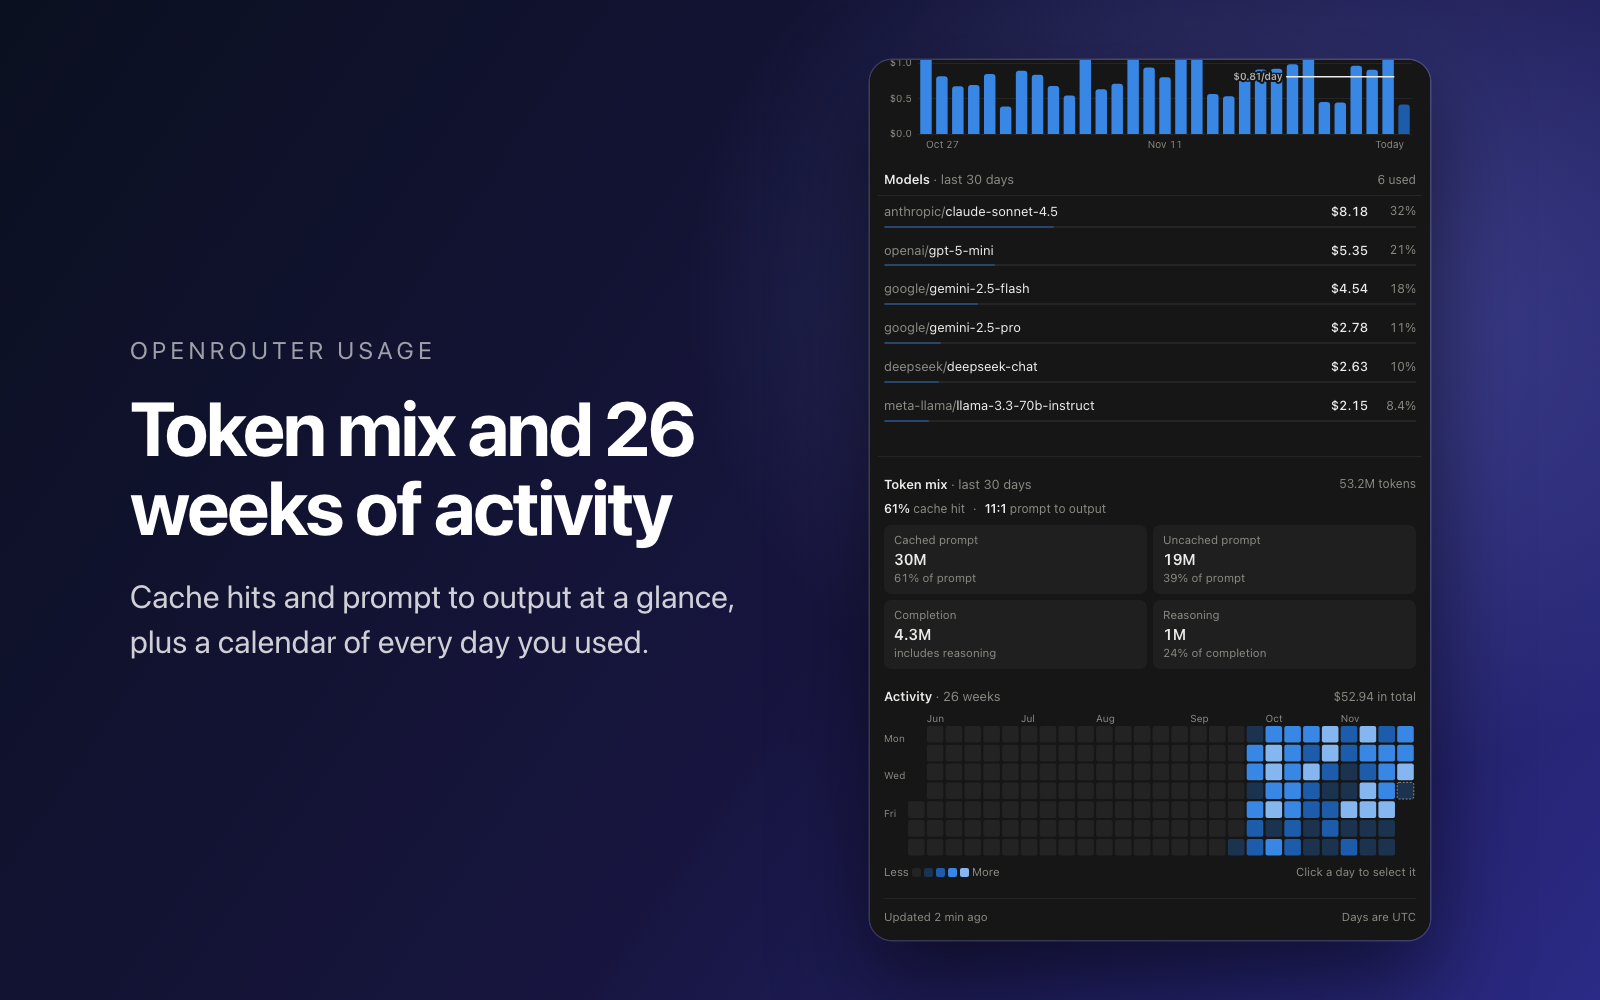
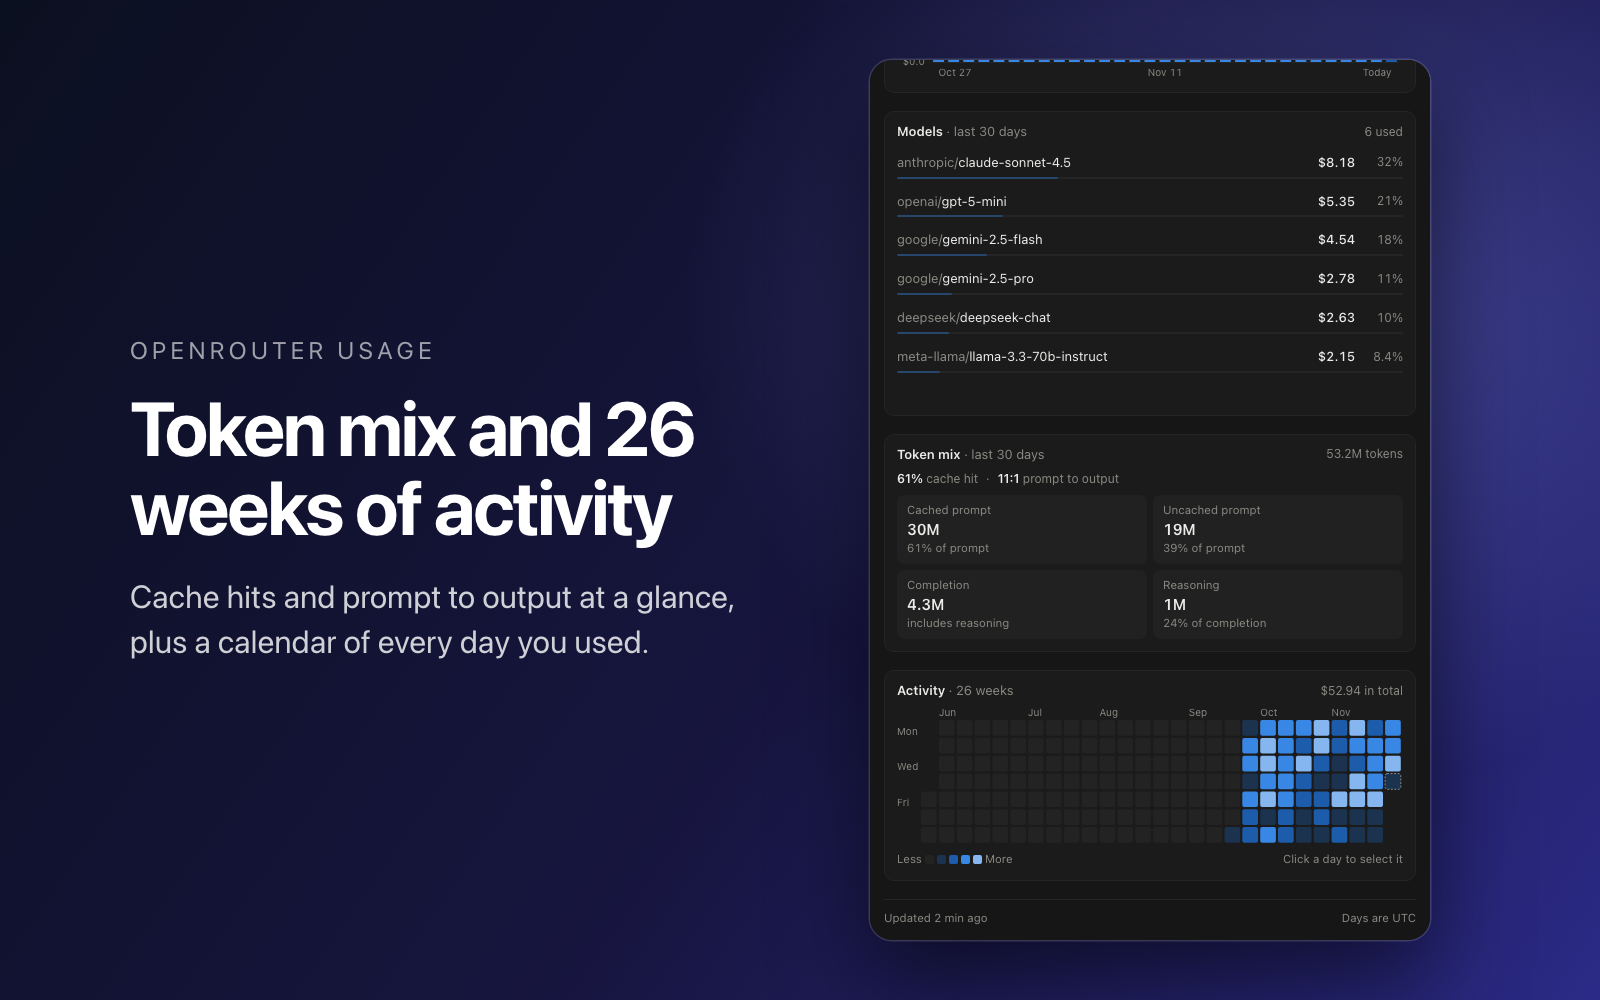
style: put Spend, Models, Token mix and Activity in quiet cards

diff --git a/panel/index.html b/panel/index.html
@@ -196,6 +196,11 @@ h2 .scope { font-weight: 400; color: var(--muted); }
 .chart .ref { stroke: var(--ref); stroke-width: 1.5; stroke-linecap: round; }
 .chart .ref-l { font-size: 10px; fill: var(--fg-2); font-weight: 600; }
 
+/* Usage sections sit in quiet cards so the page reads as a few blocks, not one long list. */
+.ucard { background: color-mix(in srgb, var(--fg) 2.5%, var(--bg)); border: 1px solid var(--hair); border-radius: 10px; padding: 10px 12px 12px; min-width: 0; }
+html.light .ucard { background: color-mix(in srgb, var(--fg) 1.8%, var(--bg)); }
+.ucard .quad > div { background: color-mix(in srgb, var(--fg) 5%, var(--bg)); }
+.ucard .mbox { border: 0; margin-bottom: -6px; }
 /* models */
 .mbox { height: 262px; overflow-y: auto; overscroll-behavior: contain; margin-top: 4px; padding: 0 6px; margin-left: -6px; margin-right: -6px; border-top: 1px solid var(--hair); border-bottom: 1px solid var(--hair); scrollbar-width: thin; scrollbar-color: var(--border) transparent; }
 .mbox::-webkit-scrollbar { width: 6px; }
@@ -745,14 +750,14 @@ function mixHtml(rep) {
 function usageHtml(rep) {
   const seg = (list, cur, act, label) => `<div class="seg sm" role="radiogroup" aria-label="${label}">${list.map(([v, l]) => `<button type="button" role="radio" aria-checked="${cur === v}" tabindex="${cur === v ? 0 : -1}" data-act="${act}" data-val="${v}" data-fk="${act}:${v}">${l}</button>`).join('')}</div>`;
   return `${todayMonthHtml(rep)}
-    <section aria-labelledby="h-spend">
+    <section class="ucard" aria-labelledby="h-spend">
       <div class="sec-h"><h2 id="h-spend">${TOK() ? 'Tokens' : 'Spend'}</h2><div class="ctl">${seg(RANGES, state.range, 'range', 'Range')}${seg(MEASURES, state.measure, 'measure', 'Measure')}</div></div>
       <div id="u-readout">${readoutHtml(rep)}</div>
       <svg class="chart${state.model ? ' sel' : ''}" role="group" aria-label="${TOK() ? 'Daily tokens' : 'Daily spend'}. Arrow keys move, Enter selects a day."></svg>
     </section>
-    <section aria-labelledby="h-models" id="u-models">${modelsHtml(rep)}</section>
-    <section aria-labelledby="h-mix" id="u-mix">${mixHtml(rep)}</section>
-    <section aria-labelledby="h-heat">
+    <section class="ucard" aria-labelledby="h-models" id="u-models">${modelsHtml(rep)}</section>
+    <section class="ucard" aria-labelledby="h-mix" id="u-mix">${mixHtml(rep)}</section>
+    <section class="ucard" aria-labelledby="h-heat">
       <div class="sec-h"><h2 id="h-heat">Activity <span class="scope">· 26 weeks</span></h2><span class="side" id="heat-ro" aria-live="polite"></span></div>
       <svg class="heat" role="grid" aria-label="Daily ${TOK() ? 'tokens' : 'spend'} for 26 weeks. Arrow keys move, Enter selects a day."></svg>
       <div class="heat-foot"><span class="scale" aria-hidden="true">Less <i style="background:var(--h0)"></i><i style="background:var(--h1)"></i><i style="background:var(--h2)"></i><i style="background:var(--h3)"></i><i style="background:var(--h4)"></i> More</span><span>Click a day to select it</span></div>

diff --git a/CHANGELOG.md b/CHANGELOG.md
@@ -8,6 +8,7 @@ A redesign: one answer first, detail on demand.
 - The banner stays, quieter, with the **OpenRouter Usage** title in Outfit, a display font embedded in the panel: credits left, how long they last at your recent rate, and an **Add credits** button.
 - Warnings sit under the banner, each with an × to close it: credits running out, keys near or at their limit, keys expiring or expired, and a monthly budget being passed. A closed warning comes back only when something changes, such as a new day or a new month.
 - **Usage** leads with Today and this month (with budget progress), then a one-colour daily chart with your 7-day burn drawn over the days it averages. Hover a bar to read that day's total; click it to select the day, and the Models list and Token mix switch to it.
+- Spend, Models, Token mix and Activity each sit in a quiet card, so the page reads as a few calm blocks.
 - Models sit in a fixed-height box that scrolls inside, with every model listed, so the page does not jump around. Click a model to open its details inline (requests, cost per request, change against the previous period, tokens, cache hit, cost per 1M tokens) and see its share in every bar.
 - **Token mix** is now four numbers that follow the range or the selected day: cached prompt, uncached prompt, completion and reasoning, with the cache hit rate and the prompt-to-output ratio.
 - The **activity heatmap** covers 26 weeks, follows Cost or Tokens, and selects a day when you click it, widening the range when needed.
